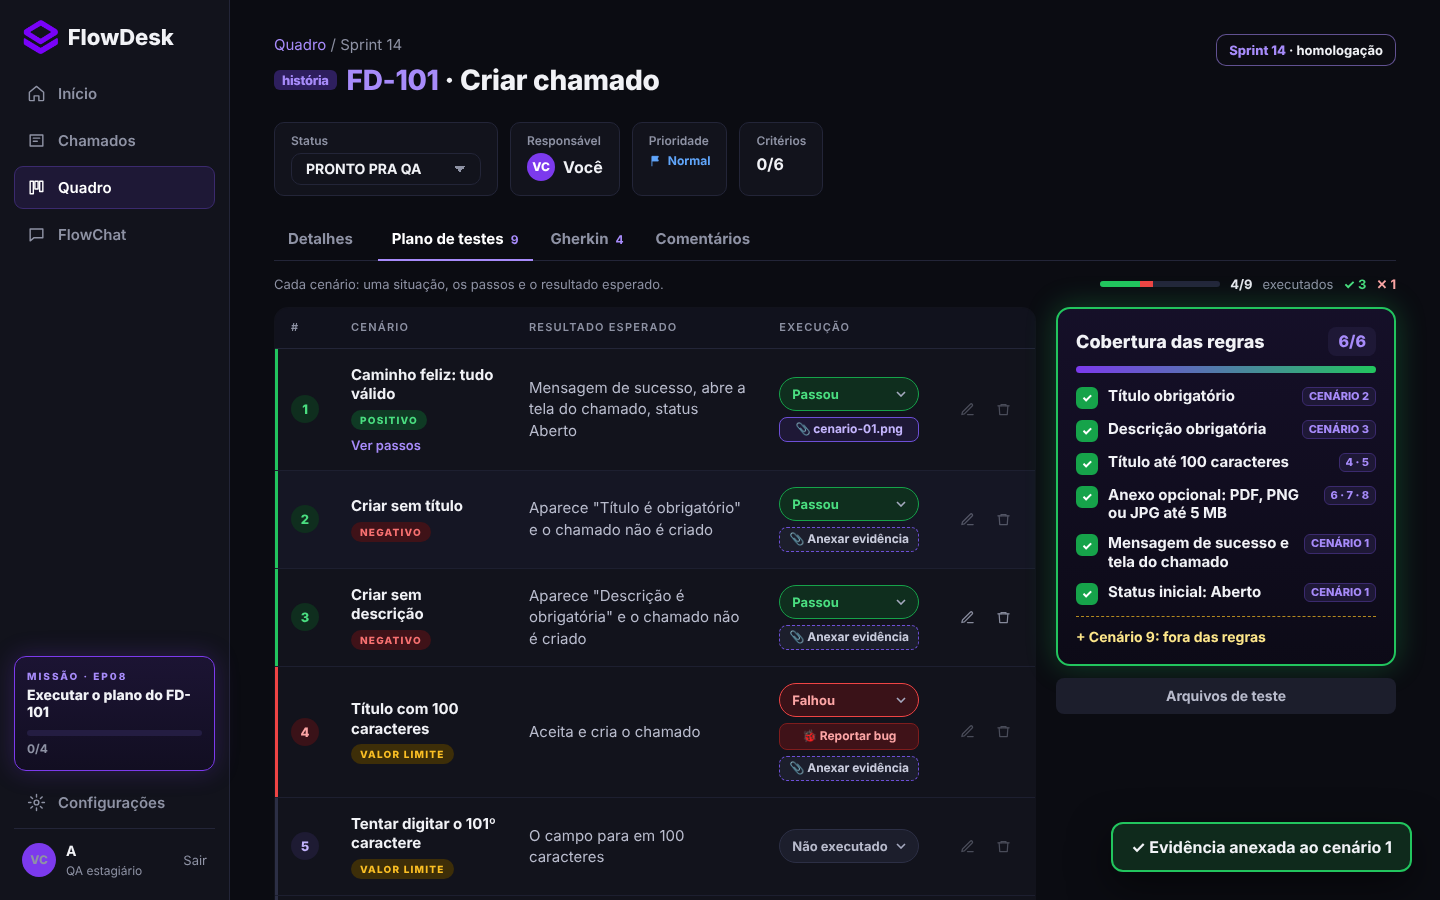
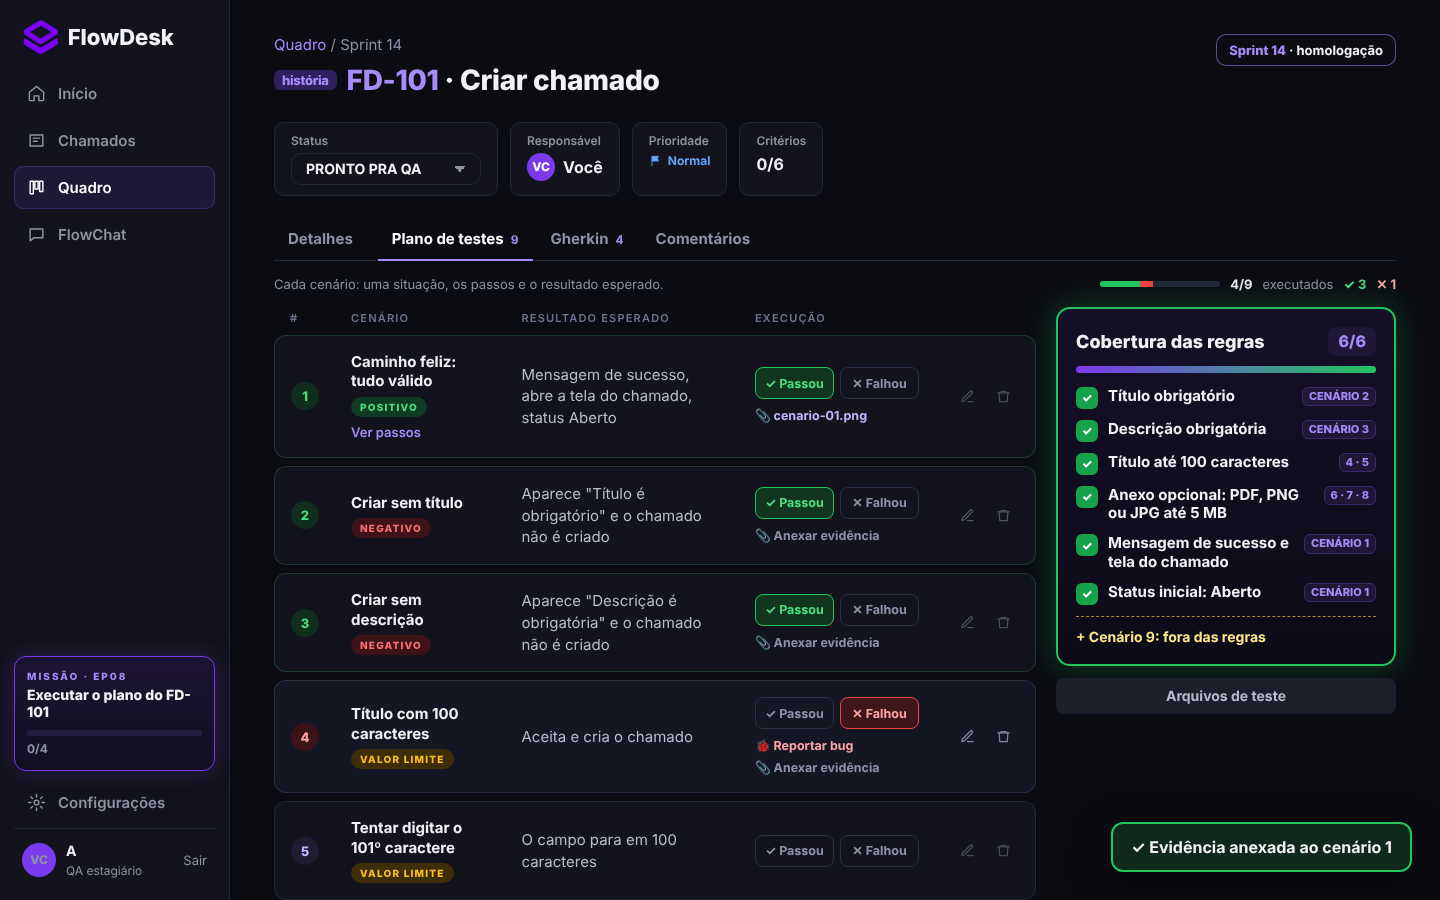
FlowDesk: plano de testes em cartões, execução com botões Passou/Falhou
Claude-Session: https://claude.ai/code/session_01G53JHXZVsxv7T27F7GAxqw

diff --git a/docs/flowdesk/js/app.js b/docs/flowdesk/js/app.js
@@ -571,7 +571,7 @@ function montaPlano(A, card) {
   A.innerHTML = `<div class="plano-barra"><p class="dica">Cada cenário: uma situação, os passos e o resultado esperado.</p>
       <div class="xres" id="xres" data-test="resumo-execucao"></div></div>
     <div class="plano"><div class="esq">
-      <table class="tabela"><thead><tr><th style="width:40px">#</th><th>Cenário</th><th>Resultado esperado</th><th style="width:170px">Execução</th><th style="width:76px"></th></tr></thead><tbody id="linhas"></tbody></table>
+      <table class="tabela"><thead><tr><th style="width:40px">#</th><th>Cenário</th><th>Resultado esperado</th><th style="width:196px">Execução</th><th style="width:76px"></th></tr></thead><tbody id="linhas"></tbody></table>
       <button type="button" class="btn sec" id="abreForm" data-test="novo-cenario" style="margin-top:14px">+ Novo cenário</button>
       <form class="fcard" id="f" novalidate style="margin-top:14px;max-width:none"><h3 style="font-size:18px;margin-bottom:14px" id="fTit">Novo cenário</h3>
         <div style="display:flex;gap:14px;flex-wrap:wrap"><div class="campo" style="flex:2;min-width:240px"><label for="cNome">Cenário <i>*</i></label><input class="in" id="cNome" data-test="cenario-nome" placeholder="Ex.: Criar sem título"></div>
@@ -593,7 +593,7 @@ function montaPlano(A, card) {
     $('#linhas').innerHTML = lista.length ? lista.map((c, i) => {
       const fora = !c.regras.length, t = TIPOS[c.tipo];
       return `<tr class="${fora ? 'fora' : ''} st-${c.exec || 'nao'}" data-test="linha-cenario"><td class="num"><span>${i + 1}</span></td><td><div class="cn">${esc(c.nome)}</div><div class="tgs"><span class="tg ${t[1]}">${t[0]}</span>${fora ? `<span class="tg tX">FORA DAS REGRAS</span>` : ''}</div>${c.passos ? `<button type="button" class="link" data-ps="${i}" data-test="ver-passos">${abertos.has(i) ? 'Esconder passos' : 'Ver passos'}</button><div class="passos" ${abertos.has(i) ? '' : 'hidden'}>${esc(c.passos)}</div>` : ''}</td><td class="res">${esc(c.esperado)}</td>
-        <td><div class="xcel"><select class="exec ${c.exec}" data-i="${i}" data-test="execucao"><option value="nao" ${c.exec === 'nao' ? 'selected' : ''}>Não executado</option><option value="passou" ${c.exec === 'passou' ? 'selected' : ''}>Passou</option><option value="falhou" ${c.exec === 'falhou' ? 'selected' : ''}>Falhou</option></select>${c.exec === 'falhou' ? (c.bug ? `<a class="bugchip" href="card.html?id=${c.bug}" data-test="bug-ligado">🐞 ${c.bug}</a>` : `<button type="button" class="bugbtn" data-bug="${i}" data-test="reportar-bug">🐞 Reportar bug</button>`) : ''}${c.exec && c.exec !== 'nao' ? `<label class="evbtn ${c.evid ? 'tem' : ''}" title="Print ou vídeo da execução"><input type="file" data-ev="${i}" data-test="evidencia-cenario" accept="image/*,video/*,.pdf" hidden>📎 ${c.evid ? esc(c.evid) : 'Anexar evidência'}</label>` : ''}</div></td>
+        <td><div class="xcel"><div class="xseg"><button type="button" class="sg ok ${c.exec === 'passou' ? 'on' : ''}" data-x="${i}" data-v="passou" data-test="marcar-passou">✓ Passou</button><button type="button" class="sg nok ${c.exec === 'falhou' ? 'on' : ''}" data-x="${i}" data-v="falhou" data-test="marcar-falhou">✕ Falhou</button></div><select class="exec-sel" data-i="${i}" data-test="execucao" aria-label="Execução do cenário ${i + 1}"><option value="nao" ${c.exec === 'passou' || c.exec === 'falhou' ? '' : 'selected'}>Não executado</option><option value="passou" ${c.exec === 'passou' ? 'selected' : ''}>Passou</option><option value="falhou" ${c.exec === 'falhou' ? 'selected' : ''}>Falhou</option></select><div class="xlinks">${c.exec === 'falhou' ? (c.bug ? `<a class="bugchip" href="card.html?id=${c.bug}" data-test="bug-ligado">🐞 ${c.bug}</a>` : `<button type="button" class="xl bug" data-bug="${i}" data-test="reportar-bug">🐞 Reportar bug</button>`) : ''}${c.exec && c.exec !== 'nao' ? `<label class="xl ev ${c.evid ? 'tem' : ''}" title="Print ou vídeo da execução"><input type="file" data-ev="${i}" data-test="evidencia-cenario" accept="image/*,video/*,.pdf" hidden>📎 ${c.evid ? esc(c.evid) : 'Anexar evidência'}</label>` : ''}</div></div></td>
         <td><div class="acoes"><button class="icone" data-ed="${i}" data-test="editar-cenario" title="Editar cenário"><svg viewBox="0 0 24 24" width="15" height="15" fill="none" stroke="currentColor" stroke-width="2" stroke-linecap="round" stroke-linejoin="round"><path d="M12 20h9"/><path d="M16.5 3.5a2.1 2.1 0 0 1 3 3L7 19l-4 1 1-4Z"/></svg></button><button class="icone rm" data-rm="${i}" data-test="excluir-cenario" title="Excluir cenário"><svg viewBox="0 0 24 24" width="15" height="15" fill="none" stroke="currentColor" stroke-width="2" stroke-linecap="round" stroke-linejoin="round"><path d="M3 6h18"/><path d="M8 6V4h8v2"/><path d="M19 6l-1 14H6L5 6"/></svg></button></div></td></tr>`;
     }).join('') : '<tr><td colspan="5" class="vazio" data-test="plano-vazio">Nenhum cenário ainda</td></tr>';
     let n = 0;
@@ -607,6 +607,7 @@ function montaPlano(A, card) {
     $('#xres').innerHTML = `<span class="xb"><i style="width:${tot ? ok / tot * 100 : 0}%"></i><i class="f" style="width:${tot ? nok / tot * 100 : 0}%"></i></span><b>${ok + nok}/${tot}</b> executados<span class="xp">✓ ${ok}</span><span class="xf">✕ ${nok}</span>`;
     if ($('#n-plano')) $('#n-plano').textContent = lista.length || '';
     $$('[data-test=execucao]').forEach((s) => { s.onchange = () => { lista[+s.dataset.i].exec = s.value; salvar(); pinta(); }; });
+    $$('[data-x]').forEach((b) => { b.onclick = () => { const c = lista[+b.dataset.x]; c.exec = c.exec === b.dataset.v ? 'nao' : b.dataset.v; salvar(); pinta(); }; });
     $$('[data-ev]').forEach((f) => { f.onchange = () => { const x = f.files[0]; if (!x) return; lista[+f.dataset.ev].evid = x.name; salvar(); pinta(); toast('Evidência anexada ao cenário ' + (+f.dataset.ev + 1)); }; });
     $$('[data-bug]').forEach((b) => { b.onclick = () => { const i = +b.dataset.bug; novaTarefa(() => pinta(), { card: card.id, i, n: i + 1, nome: lista[i].nome }); }; });
     $$('[data-ed]').forEach((b) => { b.onclick = () => edita(+b.dataset.ed); });

diff --git a/docs/flowdesk/css/flowdesk.css b/docs/flowdesk/css/flowdesk.css
@@ -156,19 +156,33 @@ select.in{appearance:none;background-image:linear-gradient(45deg,transparent 50%
 .cn{font-weight:700;line-height:1.3;font-size:15px}
 .res{color:#b9bccd;font-size:14px;line-height:1.45}
 .tgs{display:flex;flex-wrap:wrap;gap:5px;margin-top:6px}
-/* plano de testes: linhas com trilho de status */
-.plano .tabela{border-radius:14px}
-.plano .tabela th{font-size:11px;letter-spacing:1.2px;text-transform:uppercase;padding:12px 16px;background:#11121d}
-.plano .tabela td{padding:16px;border-bottom-color:#1d1f30}
-.plano .tabela td:first-child{box-shadow:inset 3px 0 #2c2f45}
-.plano .tabela tr.st-passou td:first-child{box-shadow:inset 3px 0 #22c55e}
-.plano .tabela tr.st-falhou td:first-child{box-shadow:inset 3px 0 #ef4444}
+/* plano de testes: cada cenário é um cartão */
+.plano .tabela{border-collapse:separate;border-spacing:0 8px;background:none;border:0;border-radius:0;overflow:visible;margin-top:-8px}
+.plano .tabela th{font-size:11px;letter-spacing:1.2px;text-transform:uppercase;padding:4px 16px 0;border:0;background:none;color:#6f7390}
+.plano .tabela td{padding:16px;background:var(--panel);border-top:1px solid var(--line);border-bottom:1px solid var(--line);transition:background .15s,border-color .15s}
+.plano .tabela td:first-child{border-left:1px solid var(--line);border-radius:12px 0 0 12px}
+.plano .tabela td:last-child{border-right:1px solid var(--line);border-radius:0 12px 12px 0}
+.plano .tabela tbody tr:hover{background:none}
+.plano .tabela tbody tr:hover td{background:#141625;border-color:#2c2f45}
+.plano .tabela tr.fora td{background:#17140c;border-color:#3d3214}
+.plano .tabela tr.st-passou td{border-color:#1d3b2a}.plano .tabela tr.st-falhou td{border-color:#4a1f26}
 .plano .tabela .num{width:44px}
 .plano .tabela .num span{display:inline-flex;align-items:center;justify-content:center;width:28px;height:28px;border-radius:50%;background:#1e1b33;color:#c4b5fd;font-size:13px;font-weight:800}
 .plano .tabela tr.st-passou .num span{background:#0f2e1e;color:#4ade80}
 .plano .tabela tr.st-falhou .num span{background:#3a1218;color:#fca5a5}
-.xcel{display:flex;flex-direction:column;gap:6px;align-items:stretch}
-.xcel .bugbtn,.xcel .bugchip,.xcel .evbtn{margin:0;display:block;text-align:center;max-width:none}
+.plano .tabela tr.fora.st-nao .num span{background:#3d2e08;color:#fde68a}
+.xcel{position:relative;display:flex;flex-direction:column;gap:8px}
+.xseg{display:flex;gap:6px}
+.sg{flex:1;height:32px;border-radius:8px;border:1px solid #2c2f45;background:transparent;color:#8d91aa;font-size:12.5px;font-weight:700;cursor:pointer;white-space:nowrap;transition:all .15s}
+.sg:hover{color:#e8e9f0;border-color:#4b4f6e}
+.sg.ok.on{background:#12351f;border-color:#22c55e;color:#4ade80}
+.sg.nok.on{background:#3f141b;border-color:#ef4444;color:#fca5a5}
+.exec-sel{position:absolute;left:0;top:0;width:1px;height:1px;opacity:0;pointer-events:none}
+.xlinks{display:flex;flex-wrap:wrap;gap:4px 12px}.xlinks:empty{display:none}
+.xl{background:none;border:0;padding:0;font-size:12.5px;font-weight:700;cursor:pointer;color:#8d91aa;max-width:190px;overflow:hidden;text-overflow:ellipsis;white-space:nowrap}
+.xl:hover{color:#e8e9f0;text-decoration:underline}
+.xl.bug{color:#fca5a5}.xl.ev.tem{color:#c4b5fd}
+.xlinks .bugchip{margin:0}
 .xres{display:flex;align-items:center;gap:10px;font-size:13px;color:var(--mut);white-space:nowrap}
 .xres b{color:#e8e9f0}
 .xres .xb{display:flex;width:120px;height:6px;border-radius:9px;background:#23253a;overflow:hidden}

diff --git a/docs/flowdesk/configuracoes.html b/docs/flowdesk/configuracoes.html
@@ -1,4 +1,4 @@
 <!doctype html>
 <html lang="pt-BR"><head><meta charset="utf-8"><meta name="viewport" content="width=device-width,initial-scale=1">
-<title>Configurações · FlowDesk</title><link rel="icon" href="img/icon.png"><link rel="stylesheet" href="css/flowdesk.css?v=1794325520"></head>
-<body data-page="configuracoes"><script src="js/app.js?v=1794325520"></script></body></html>
+<title>Configurações · FlowDesk</title><link rel="icon" href="img/icon.png"><link rel="stylesheet" href="css/flowdesk.css?v=1794327530"></head>
+<body data-page="configuracoes"><script src="js/app.js?v=1794327530"></script></body></html>

diff --git a/docs/flowdesk/novo-chamado.html b/docs/flowdesk/novo-chamado.html
@@ -1,4 +1,4 @@
 <!doctype html>
 <html lang="pt-BR"><head><meta charset="utf-8"><meta name="viewport" content="width=device-width,initial-scale=1">
-<title>Novo chamado · FlowDesk</title><link rel="icon" href="img/icon.png"><link rel="stylesheet" href="css/flowdesk.css?v=1794325520"></head>
-<body data-page="novo-chamado"><script src="js/app.js?v=1794325520"></script></body></html>
+<title>Novo chamado · FlowDesk</title><link rel="icon" href="img/icon.png"><link rel="stylesheet" href="css/flowdesk.css?v=1794327530"></head>
+<body data-page="novo-chamado"><script src="js/app.js?v=1794327530"></script></body></html>

diff --git a/docs/flowdesk/reportar-bug.html b/docs/flowdesk/reportar-bug.html
@@ -1,4 +1,4 @@
 <!doctype html>
 <html lang="pt-BR"><head><meta charset="utf-8"><meta name="viewport" content="width=device-width,initial-scale=1">
-<title>Reportar bug · FlowDesk</title><link rel="icon" href="img/icon.png"><link rel="stylesheet" href="css/flowdesk.css?v=1794325520"></head>
-<body data-page="reportar-bug"><script src="js/app.js?v=1794325520"></script></body></html>
+<title>Reportar bug · FlowDesk</title><link rel="icon" href="img/icon.png"><link rel="stylesheet" href="css/flowdesk.css?v=1794327530"></head>
+<body data-page="reportar-bug"><script src="js/app.js?v=1794327530"></script></body></html>

diff --git a/docs/flowdesk/quadro.html b/docs/flowdesk/quadro.html
@@ -1,4 +1,4 @@
 <!doctype html>
 <html lang="pt-BR"><head><meta charset="utf-8"><meta name="viewport" content="width=device-width,initial-scale=1">
-<title>Quadro da sprint · FlowDesk</title><link rel="icon" href="img/icon.png"><link rel="stylesheet" href="css/flowdesk.css?v=1794325520"></head>
-<body data-page="quadro"><script src="js/app.js?v=1794325520"></script></body></html>
+<title>Quadro da sprint · FlowDesk</title><link rel="icon" href="img/icon.png"><link rel="stylesheet" href="css/flowdesk.css?v=1794327530"></head>
+<body data-page="quadro"><script src="js/app.js?v=1794327530"></script></body></html>

diff --git a/docs/flowdesk/plano.html b/docs/flowdesk/plano.html
@@ -1,4 +1,4 @@
 <!doctype html>
 <html lang="pt-BR"><head><meta charset="utf-8"><meta name="viewport" content="width=device-width,initial-scale=1">
-<title>Plano de testes · FlowDesk</title><link rel="icon" href="img/icon.png"><link rel="stylesheet" href="css/flowdesk.css?v=1794325520"></head>
-<body data-page="plano"><script src="js/app.js?v=1794325520"></script></body></html>
+<title>Plano de testes · FlowDesk</title><link rel="icon" href="img/icon.png"><link rel="stylesheet" href="css/flowdesk.css?v=1794327530"></head>
+<body data-page="plano"><script src="js/app.js?v=1794327530"></script></body></html>

diff --git a/docs/flowdesk/dashboard.html b/docs/flowdesk/dashboard.html
@@ -1,4 +1,4 @@
 <!doctype html>
 <html lang="pt-BR"><head><meta charset="utf-8"><meta name="viewport" content="width=device-width,initial-scale=1">
-<title>Dashboard · FlowDesk</title><link rel="icon" href="img/icon.png"><link rel="stylesheet" href="css/flowdesk.css?v=1794325520"></head>
-<body data-page="dashboard"><script src="js/app.js?v=1794325520"></script></body></html>
+<title>Dashboard · FlowDesk</title><link rel="icon" href="img/icon.png"><link rel="stylesheet" href="css/flowdesk.css?v=1794327530"></head>
+<body data-page="dashboard"><script src="js/app.js?v=1794327530"></script></body></html>

diff --git a/docs/flowdesk/chamados.html b/docs/flowdesk/chamados.html
@@ -1,4 +1,4 @@
 <!doctype html>
 <html lang="pt-BR"><head><meta charset="utf-8"><meta name="viewport" content="width=device-width,initial-scale=1">
-<title>Chamados · FlowDesk</title><link rel="icon" href="img/icon.png"><link rel="stylesheet" href="css/flowdesk.css?v=1794325520"></head>
-<body data-page="chamados"><script src="js/app.js?v=1794325520"></script></body></html>
+<title>Chamados · FlowDesk</title><link rel="icon" href="img/icon.png"><link rel="stylesheet" href="css/flowdesk.css?v=1794327530"></head>
+<body data-page="chamados"><script src="js/app.js?v=1794327530"></script></body></html>

diff --git a/docs/flowdesk/clientes.html b/docs/flowdesk/clientes.html
@@ -1,4 +1,4 @@
 <!doctype html>
 <html lang="pt-BR"><head><meta charset="utf-8"><meta name="viewport" content="width=device-width,initial-scale=1">
-<title>Clientes · FlowDesk</title><link rel="icon" href="img/icon.png"><link rel="stylesheet" href="css/flowdesk.css?v=1794325520"></head>
-<body data-page="clientes"><script src="js/app.js?v=1794325520"></script></body></html>
+<title>Clientes · FlowDesk</title><link rel="icon" href="img/icon.png"><link rel="stylesheet" href="css/flowdesk.css?v=1794327530"></head>
+<body data-page="clientes"><script src="js/app.js?v=1794327530"></script></body></html>

diff --git a/docs/flowdesk/missoes.html b/docs/flowdesk/missoes.html
@@ -1,4 +1,4 @@
 <!doctype html>
 <html lang="pt-BR"><head><meta charset="utf-8"><meta name="viewport" content="width=device-width,initial-scale=1">
-<title>Missões · FlowDesk</title><link rel="icon" href="img/icon.png"><link rel="stylesheet" href="css/flowdesk.css?v=1794325520"></head>
-<body data-page="missoes"><script src="js/app.js?v=1794325520"></script></body></html>
+<title>Missões · FlowDesk</title><link rel="icon" href="img/icon.png"><link rel="stylesheet" href="css/flowdesk.css?v=1794327530"></head>
+<body data-page="missoes"><script src="js/app.js?v=1794327530"></script></body></html>

diff --git a/docs/flowdesk/chamado.html b/docs/flowdesk/chamado.html
@@ -1,4 +1,4 @@
 <!doctype html>
 <html lang="pt-BR"><head><meta charset="utf-8"><meta name="viewport" content="width=device-width,initial-scale=1">
-<title>Chamado · FlowDesk</title><link rel="icon" href="img/icon.png"><link rel="stylesheet" href="css/flowdesk.css?v=1794325520"></head>
-<body data-page="chamado"><script src="js/app.js?v=1794325520"></script></body></html>
+<title>Chamado · FlowDesk</title><link rel="icon" href="img/icon.png"><link rel="stylesheet" href="css/flowdesk.css?v=1794327530"></head>
+<body data-page="chamado"><script src="js/app.js?v=1794327530"></script></body></html>
